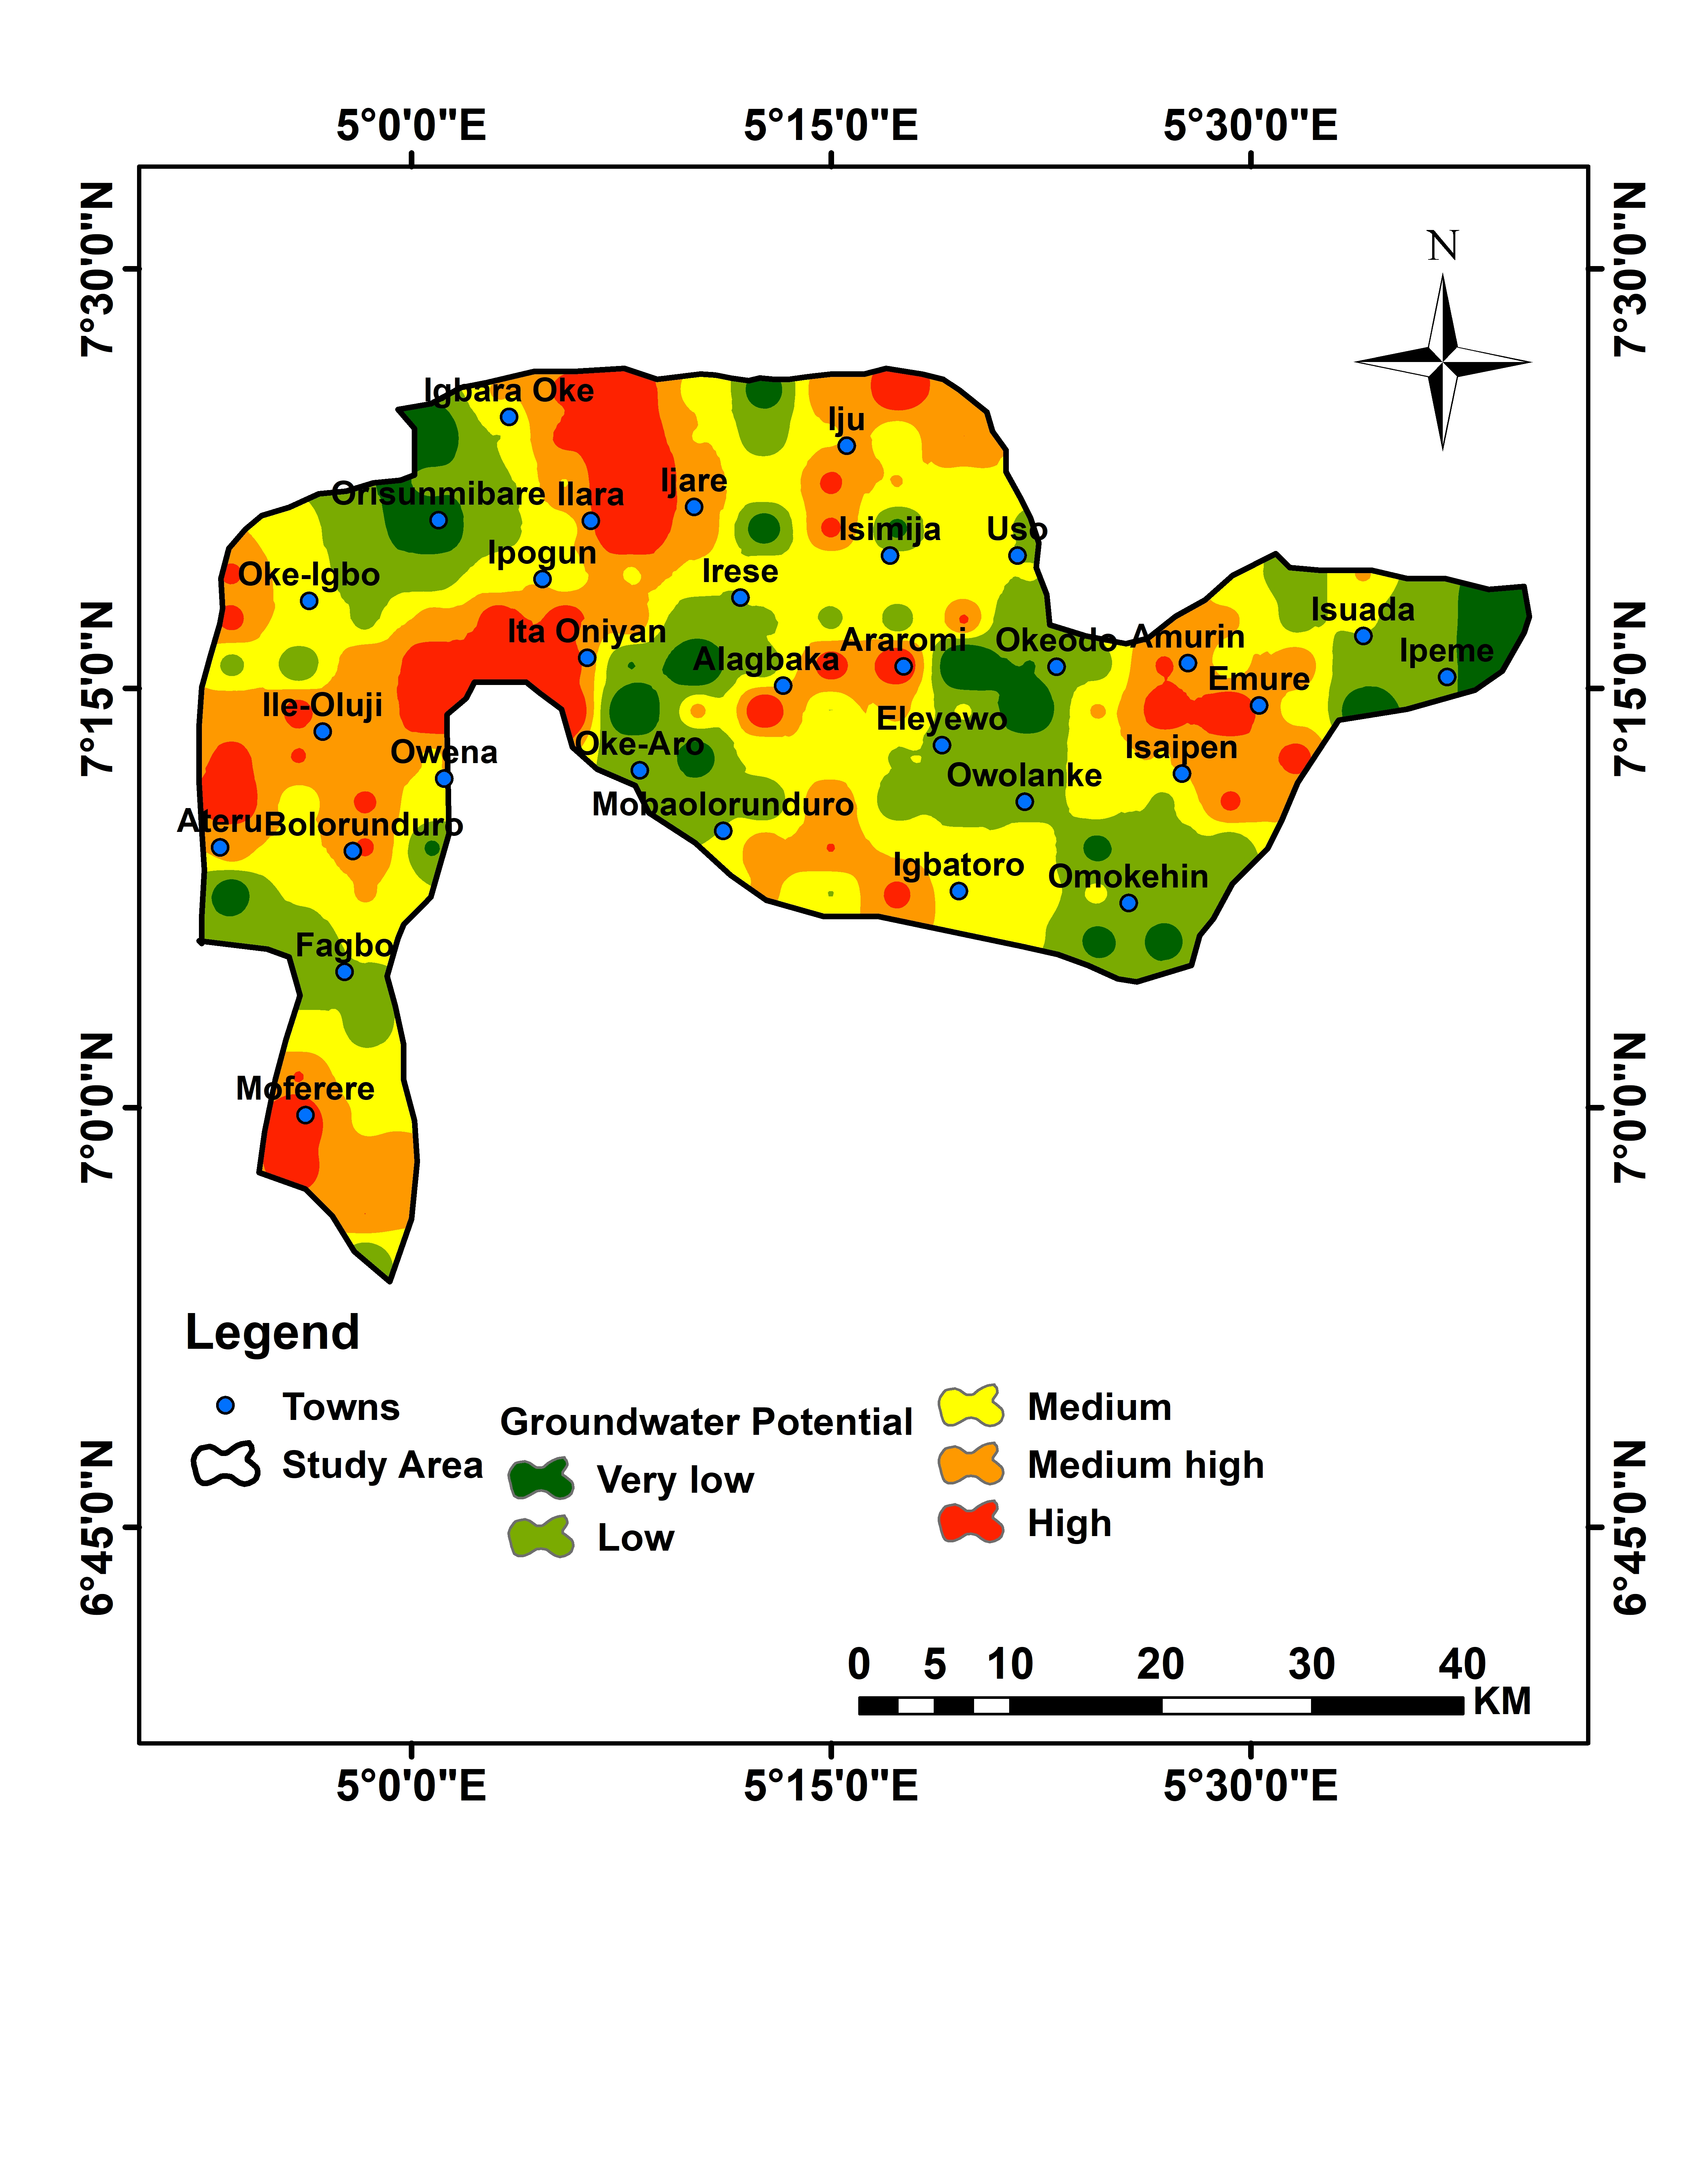
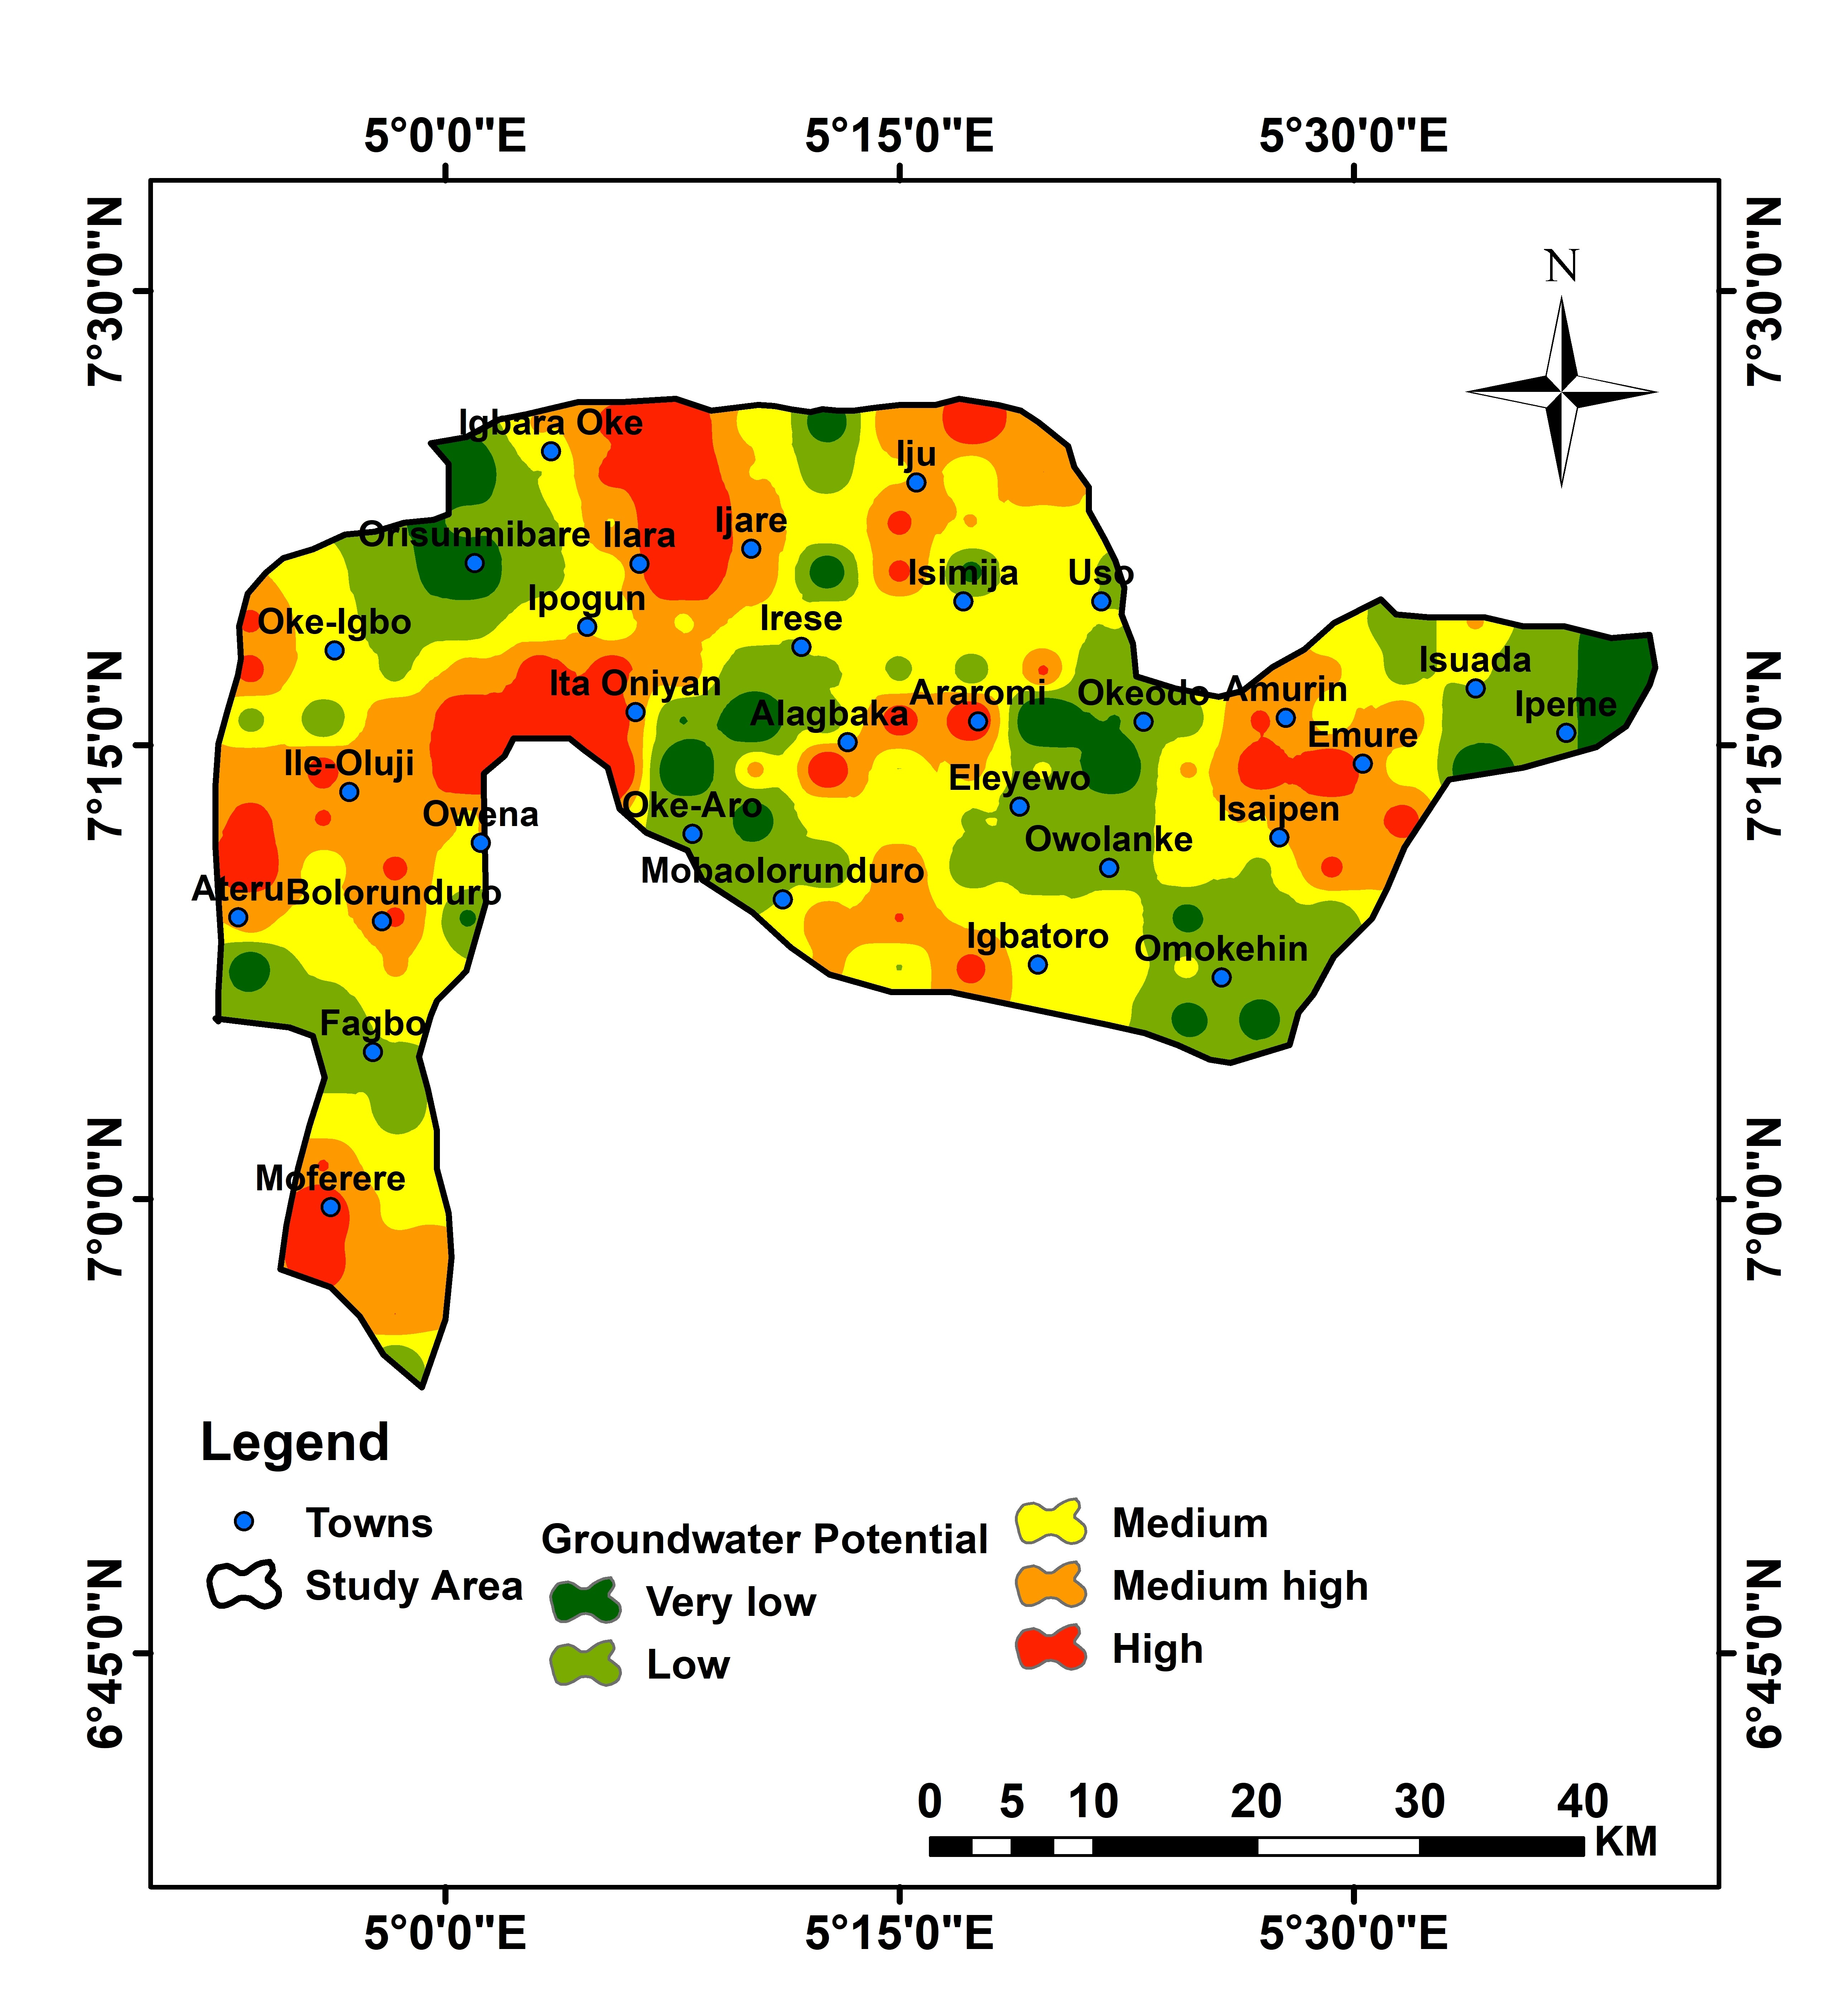
update personal website information

diff --git a/_sass/layout/_page.scss b/_sass/layout/_page.scss
@@ -20,7 +20,7 @@
   @include breakpoint($large) {
     @include span(10 of 12 last);
     @include prefix(0.5 of 12);
-    @include suffix(2 of 12);
+    @include suffix(0.5 of 12); 
   }
 
   .page__inner-wrap {

diff --git a/_portfolio/idocriw_cocoso_gpot.md b/_portfolio/idocriw_cocoso_gpot.md
@@ -3,57 +3,84 @@ title: "Hybrid objective model (IDOCRIW-CoCoSo) optimizes groundwater potential"
 excerpt: "Graphical abstract <br/><img src='/images/portfolio/Idocriw_cocoso/1.PNG'>"
 collection: portfolio
 ---
+---
+# Description
+Published work, Cleaner Water (2026) [Link](https://www.sciencedirect.com/science/article/pii/S2950263226000694) 
 
-**Keywords** Groundwater, Objective MCDM algorithm, Sustainability. 
-
-**Description** Under review manuscript (2025). 
-
-### Highlights 
+---
+# Highlights 
 - Applied Integrated Determination of Objective Criteria Weights-Combined Compromise Solution (IDOCRIW-CoCoSo) multi-criteria decision-making approach.
 
 - Utilized remote sensing and geophysical conditioning datasets for the modelling.
 
 - Used other objective models (CRITIC-CoCoSo, and Mean Weighted CoCoSo) as comparative tools. 
 
-### Methodology ### 
-- Creation of conditioning factors maps using ArcGIS 10.8.2 software. 
+---
+# Abstract
+Groundwater is a valuable asset in both urban and rural areas, where the demand for alternate water sources is increasing—a vital resource for agriculture, industry, and domestic. Assessment of this resource becomes paramount globally and especially in areas where fresh water demand is rising despite falling within a multi-faceted geologic environment—rendering its sustainable management a pressing concern. To address this issue, an Integrated Determination of Objective CRIteria weights–Combined Compromise Solution (IDOCRIW-CoCoSo) was developed by integrating five groundwater potential influencing factors sourced from remote sensing and geophysical datasets. This will increase the prospect of finding productive aquifers and maximize the choice of drilling sites. The results were contrasted with two other hybrid objective modelling approaches, including CRiteria Importance Through Intercriteria Correlation–Combined Compromise Solution (CRITIC-CoCoSo), and Mean Weighted (MW) - CoCoSo. The groundwater potential map produced, classified into five classes, showed that 6% (113 km²), 26% (486 km²), 32% (603 km²), 26% (473 km²), and 10% (192 km²) fall into very low, low, medium, medium high, and high potentiality, respectively. The obtained results were confirmed using the receiver operating characteristic (ROC) curve and sensitivity analysis. According to the area under the ROC curve, the IDOCRIW-CoCoSo had a success rate of 83%, compared to MW- CoCoSo with an area under the curve (AUC) of 75% and CRITIC-CoCoSo (69%). The findings demonstrate IDOCRIW-CoCoSo's higher accuracy in predicting groundwater potential zones. For the sustained development and management of water-scarce areas, this study offers scientific perspective into the sustainability, distribution and governance of groundwater assets.
 
-- Fishnet points extraction into Python programming coded models. 
-
-- Groundwater potential maps have been generated based on the models. 
-
-- Reliability and comparative analysis were adopted leveraging on statistical analysis like Boostrapping of AUC results
+---
+# Methodology
+Conditioning factors maps have been generated using ArcGIS 10.8.2 software. Python programming coded objective models were applied to the groundwater potential decision matrix gotten through fishnet points extraction of pixel values from the factors maps. Interpolation technique was used to create groundwater potential maps of the study area taking groundwater potential indices from models as input. Several reliability and comparative analysis iincluding sensitivity analysis as well as multicollinearity testing were adopted.
 
 <figure>
   <img src= "/images/portfolio/Idocriw_cocoso/5.PNG" alt="Methodology Flowchart">
   <figcaption><em>Methodology Flowchart</em></figcaption>
 </figure>
 
-### Findings 
-- Potentiality indices varied significantly across the location in the study area. 
+---
+# Findings 
 
-- GIS integration improved spatial accuracy. 
-
-- The methodology is adaptable to other regions with similar geologic context.
- 
-- IDOCRIW-CoCoSo demonstrated stability during scenario analysis
-
-- The produced groundwater potential map (IDOCRIW-CoCoSo) is advantageous in meeting SDG 6.1 goals
+## The produced groundwater potential map (IDOCRIW-CoCoSo) is advantageous in meeting SDG 6.1 goals in the study area
+<figure>
+  <img src= "/images/portfolio/Idocriw_cocoso/9.jpg" alt="Study area location map">
+  <figcaption><em>Study area map</em></figcaption>
+</figure>
 
 <figure>
-  <img src= "/images/portfolio/Idocriw_cocoso/2.jpg" alt="Groundwater potential map (IDOCRIW-CoCoSo)">
+  <img src= "/images/portfolio/Idocriw_cocoso/2.jpg" alt="Groundwater potential map (IDOCRIW-CoCoSo">
   <figcaption><em>Groundwater Potential Map (IDOCRIW-CoCoSo)</em></figcaption>
 </figure>
+
+## IDOCRIW-CoCoSo showed impressive AUC-score compared to CRITIC and Mean Weighted CoCoSo
+<figure>
+  <img src= "/images/portfolio/Idocriw_cocoso/10.jpg" alt="ROC-Curve for IDOCRIW-CoCoSo">
+  <figcaption><em>ROC-Curve for IDOCRIW-CoCoSo</em></figcaption>
+</figure>
+
+<figure>
+  <img src= "/images/portfolio/Idocriw_cocoso/11.jpg" alt="ROC-Curve for CRITIC-CoCoSo">
+  <figcaption><em>ROC-Curve for CRITIC-CoCoSo</em></figcaption>
+</figure>
+
+<figure>
+  <img src= "/images/portfolio/Idocriw_cocoso/12.jpg" alt="ROC-Curve for Mean Weighted-CoCoSo">
+  <figcaption><em>ROC-Curve for Mean Weighted-CoCoSo</em></figcaption>
+</figure>
+
+## Comparative and hydrogeological analysis further elaborated the supremacy and efficacy of IDOCRIW-CoCoSo model for groundwater potential mapping
+
 <figure>
   <img src= "/images/portfolio/Idocriw_cocoso/3.png" alt="Bootstrapped AUC result of the models">
   <figcaption><em>Bootstrapped AUC result used as a form of computational efficiency assessment of the models</em></figcaption>
 </figure>
+
 <figure>
   <img src= "/images/portfolio/Idocriw_cocoso/7.PNG" alt="Sensitivity analysis of IDOCRIW-CoCoSo">
   <figcaption><em>Sensitivity analysis of IDOCRIW-CoCoSo</em></figcaption>
 </figure>
+
 <figure>
   <img src= "/images/portfolio/Idocriw_cocoso/8.png" alt="Heatmap of IDOCRIW-CoCoSo model">
   <figcaption><em></em>Heatmap of IDOCRIW-CoCoSo model demonstrating the stability of its outputs across the fishnet locations during scenario analysis</figcaption>
 </figure>
 
+<figure>
+  <img src= "/images/portfolio/Idocriw_cocoso/13.jpg" alt="IDOCRIW-CoCoSo groundwater potential map indicating correlating regions with overburden thickness map">
+  <figcaption><em></em>IDOCRIW-CoCoSo groundwater potential map indicating correlating regions (black circle) with overburden thickness map</figcaption>
+</figure>
+
+<figure>
+  <img src= "/images/portfolio/Idocriw_cocoso/14.jpg" alt="Overburden thickness map showing correlating regions with IDOCRIW-CoCoSo groundwater potential map ">
+  <figcaption><em></em>Overburden thickness map showing correlating regions (black circles) with IDOCRIW-CoCoSo groundwater potential map</figcaption>
+</figure>

diff --git a/_portfolio/ml_gpot.md b/_portfolio/ml_gpot.md
@@ -3,10 +3,12 @@ title: "ML algorithms for groundwater sustainability in a data scarce region"
 excerpt: "Study area <br/><img src='/images/portfolio/ml_gpot/1.PNG'>"
 collection: portfolio
 ---
+---
+# Description
+Published work, Ecological Frontiers (2026) [Link](https://www.sciencedirect.com/science/article/abs/pii/S2950509726000237) 
 
-**Description** Excerpt from published work (Ecological Frontiers, 2026). 
-
-### Highlights 
+---
+# Highlights 
 - Fishnet approach have been used to derive data partitioning for the ML modelling.
 
 - Multicollinarity detection was employed to select the most suitable remote sensing parameters.
@@ -15,6 +17,9 @@ collection: portfolio
 
 - The result demonstrated the abilities of data driven approaches in partitioning groundwater locations for its sustainability even in data scarce region
 
+---
+# Abstract
+Humanity's usage of water cannot be halted, as water is a necessary resource for existence and is highly valued in a wide variety of quotidian usages and initiatives. This study aimed to predict and define groundwater potential (GWP) zones in the Edo North region of Nigeria. This is achieved by combining machine learning (ML) models, such as random forest (RF), support vector machine (SVM), adaptive boosting (AdaBoost), and eXtreme gradient boost (XGB), with analytical hierarchy process (AHP)—multi-criteria decision analysis (MCDA). Multiple indices, including anthropological (normalized difference vegetation index), hydrogeological (geology and lineament density), hydrological (rainfall distribution and proximity to surface water bodies), and topographical factors (slope, aspect, drainage density, and topographic wetness index), were utilized as groundwater-influencing parameters. Prognostication competencies of these factors were established through the application of multicollinearity (MC) evaluation. The AHP approach was used to weight and scale these influencing variables and determine their impact on groundwater prospects. Given the constrained amount of data available, ‘CreateFishnet_management’ requires training the ML models with 100% borehole data. Every model's reliability was quantified using the area under the receiver-operating characteristic (AU-ROC) curve. The four (4) machine learning algorithms and AHP model divided the GWP zone into four distinct groups: high, moderate, low, and very low. The RF, AdaBoost, SVM, XGB, and AHP models show that the beneficial GWP zones encompass 41.59%, 36.42%, 45.93%, 25.30%, and 14.03% of the research region, respectively. The model dependability using measured AU-ROC curve metrics indicates that the RF model has the greatest rate of success (78.00%), preceding the AdaBoost (77.00%), SVM (73.00%), XGB (71.00%), and AHP (50.00%) models. This multi-approach promotes long-term groundwater governance in the study area
 <figure>
   <img src= "/images/portfolio/ml_gpot/2.PNG" alt="Fishnet location template">
   <figcaption><em>Fishnet location used to extract values of influencing variables into the modelling. It was also adopted in selecting appropriate target points from the borehole yield map which served as the spatial representation of the target variable in the study region </em></figcaption>
@@ -43,6 +48,7 @@ collection: portfolio
   <figcaption><em>AUC-ROC curve showing the predictive abilities of the models and ultimately showing that, all ML models outperform the AHP model</em></figcaption>
 </figure>
 
-### Perceived limitations and future research direction
+---
+# Future research direction
 
-We trained our ML models using full training datasets and predicted their abilities using full pack of unseen datasets. Future research could employ cross validation to a single datasets for training and testing to ensure and check models generalizability. Furthermore, it still a major cause of debate whether target variable (in our case, borehole yield data) should be used in a continous manner rather than in a classified manner as we've done in our research. Future works could test these two approaches before modelling!
+We trained our ML models using full training datasets and predicted their abilities using full pack of unseen datasets. Future research could employ cross validation to a single datasets for training and testing to ensure and check models generalizability. Furthermore, it still a major cause of debate whether target variable (in our case, borehole yield data) should be used in a continous manner rather than in a classified manner as we've done in our research. Future works could test these two approaches before modelling